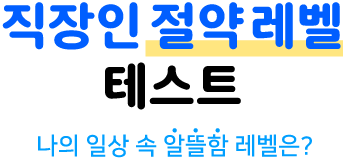
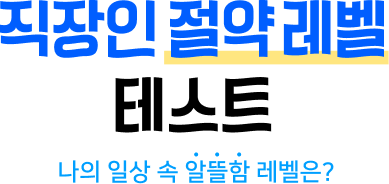
[design] 표지, 문제 페이지 아이콘 및 UI 커스텀 수정

diff --git a/questionStyles.css b/questionStyles.css
@@ -4,15 +4,6 @@ body {
     padding: 0;
     background-color: #EFF3F6;
 }
-
-/* 아이콘 스타일 */
-#icon {
-    font-size: 20px;
-    margin-left: 10px;
-    position: absolute;
-    margin-top: 55px;
-    margin-left: 4%;
-}
 /* 이미지 속성: 25% 로 줄이기 */
 img {
     width: 25%;
@@ -20,17 +11,24 @@ img {
     margin-bottom: 73px;
 }
 
+/* 아이콘 스타일 */
+#icon {
+    position: absolute;
+    margin-top: 47px;
+    margin-left: 2%;
+}
+#progressbar_icon {
+    width: 68px;
+    height: 68px;
+}
 
 /* 질문 컨테이너 */
 .quiz-container {
     position: relative;
-    max-width: 400px;
+    max-width: 480px;
     min-height: 600px;
     margin: 0 auto;
     padding: 20px;
-    /* background-color: purple; 
-    border-radius: 5px;
-    box-shadow: 0 0 10px rgba(0, 0, 0, 0.1); */
     text-align: center;
 }
 
@@ -56,7 +54,7 @@ img {
     position: absolute;
     margin: 67px 20px 0px 20px;
     width: 0;
-    height: 5px;
+    height: 14px;
     border-radius: 5px 0px 0px 5px;
     background: #00F;
     transition: width 0.5s ease-in-out; /* 애니메이션 효과 추가 */
@@ -65,7 +63,7 @@ img {
     position: absolute;
     margin: 67px 20px 0px 20px;
     width: 100%;
-    height: 5px;
+    height: 14px;
     border-radius: 5px;
     background: #C3C3E1;
 }
@@ -77,9 +75,8 @@ img {
     margin-top: 190px;
     
     text-align: center;
-    font-size: 25px;
-    font-weight: 500;
-    font-weight: 500;
+    font-size: 36px;
+    font-weight: 700;
     line-height: normal;
     font-style: normal;
     
@@ -88,7 +85,7 @@ img {
     display: inline-block; /* 인라인 블록 요소로 표시 */
     font-weight: bold;
     word-wrap: break-word; /* 단어가 길어질 경우 자동으로 줄 바꿈 */
-    line-height: 1.5; /* 줄 간격 조절 */
+    line-height: 52.13px; /* 줄 간격 조절 */
     min-height: 150px;
 }
 /* 버튼 컨테이너 */
@@ -102,10 +99,10 @@ img {
 .button1 {
     padding: 10px 20px;
     color: black;
-    border-radius: 25px;
-    border: 2px solid #4380DE;
-    background: #FFF;
-    width: 350px;
+    border-radius: 30px;
+    border: 3px solid #C3C3E1;
+    background: #FFFFFF;
+    width: 480px;
     height: 120px;
     cursor: pointer;
     margin: 5px;
@@ -113,18 +110,18 @@ img {
     /* 버튼 크기 및 텍스트 레이아웃 조절 */
     text-align: center;
     white-space: pre-line; /* 줄바꿈 문자(\n)를 줄 바꿈으로 처리 */
-    line-height: 1.2; /* 줄 간격 조절 */
-    font-size: 22px;
+    line-height: 34.75px; /* 줄 간격 조절 */
+    font-size: 24px;
     font-weight: 500;
 }
 
 .button2 {
     padding: 10px 20px;
     color: black;
-    border-radius: 25px;
-    border: 2px solid #4380DE;
-    background: #FFF;
-    width: 350px;
+    border-radius: 30px;
+    border: 3px solid #C3C3E1;
+    background: #FFFFFF;
+    width: 480px;
     height: 120px;
     cursor: pointer;
     margin: 5px;
@@ -132,8 +129,8 @@ img {
     /* 버튼 크기 및 텍스트 레이아웃 조절 */
     text-align: center;
     white-space: pre-line; /* 줄바꿈 문자(\n)를 줄 바꿈으로 처리 */
-    line-height: 1.2; /* 줄 간격 조절 */
-    font-size: 22px;
+    line-height: 34.75px; /* 줄 간격 조절 */
+    font-size: 24px;
     font-weight: 500;
 }
 /* 버튼 위에 마우스 올려놓았을 때 이벤트 */

diff --git a/question.html b/question.html
@@ -18,7 +18,7 @@
             <div id="question-count">1/10</div>
             <div id="progress-background"></div>
             <div id="progress-bar"></div>
-            <div id="icon">😡</div>
+            <div id="icon"><img id="progressbar_icon" src="./Images/progressbar_icon.png"></div>
         </div>
         
         <!-- 질문 라벨 -->

diff --git a/index.html b/index.html
@@ -12,7 +12,7 @@
         <!-- 이미지 -->
         <div class="image-container">
             <img id="title" src="./Images/title.png">
-            <img id="test_character" src="./Images/test_character.png">
+            <img id="test_character" src="./Images/mona_character.png">
         </div>
         
         <!-- Buttons -->
